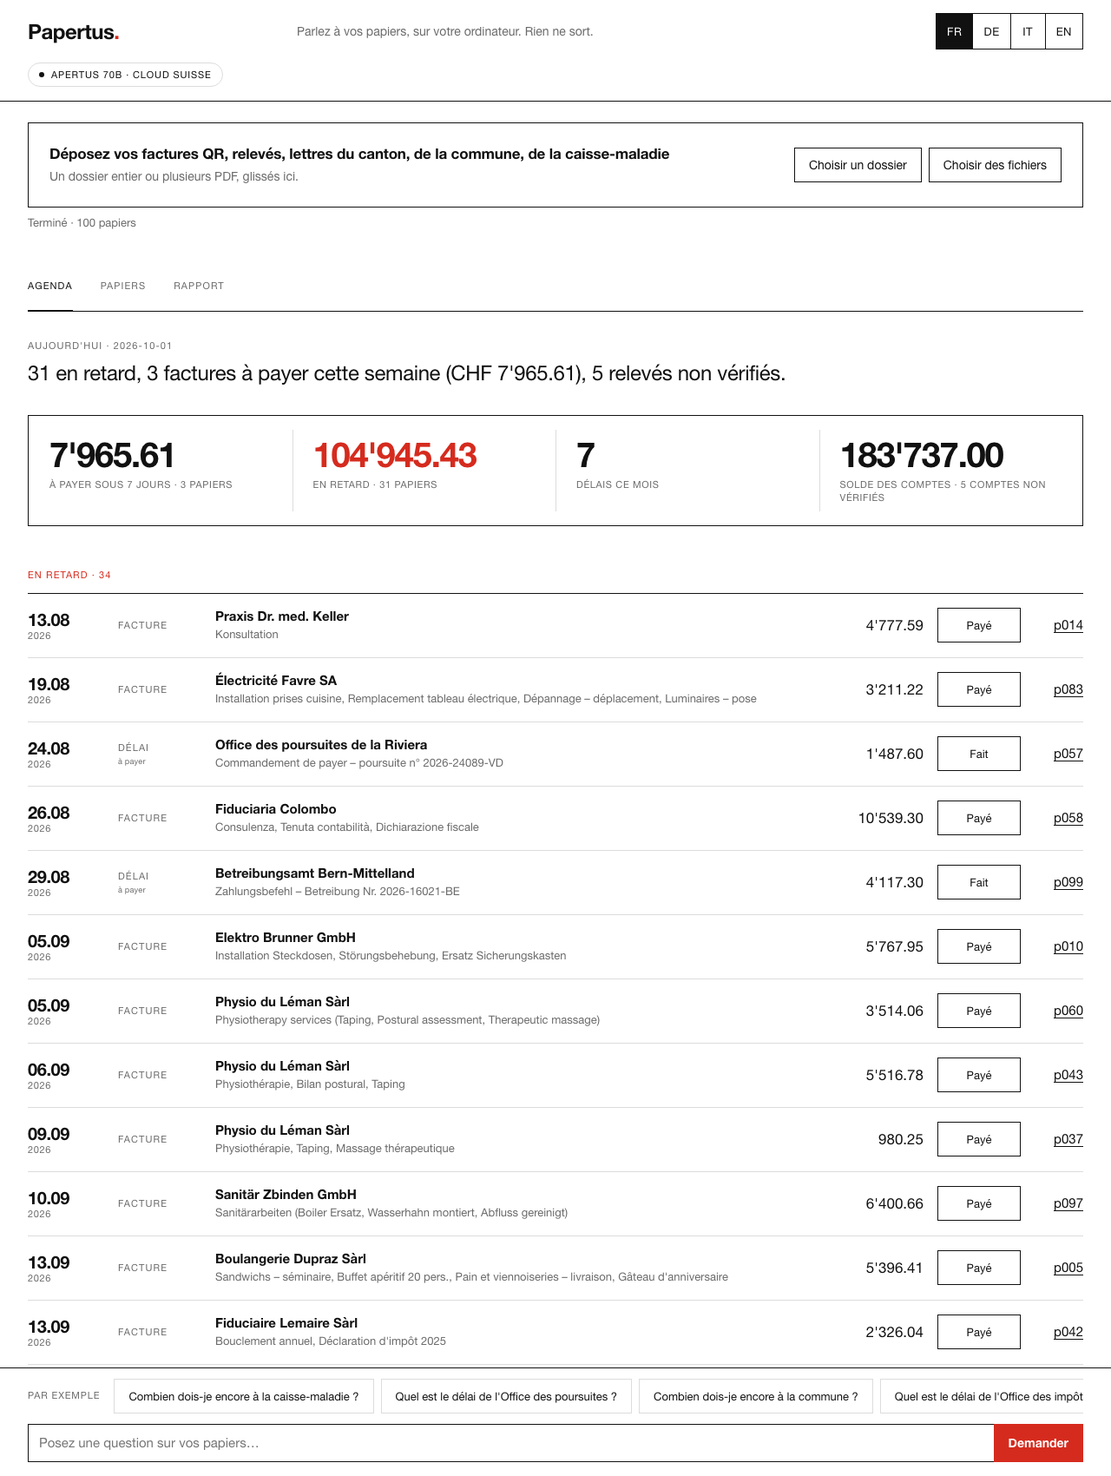
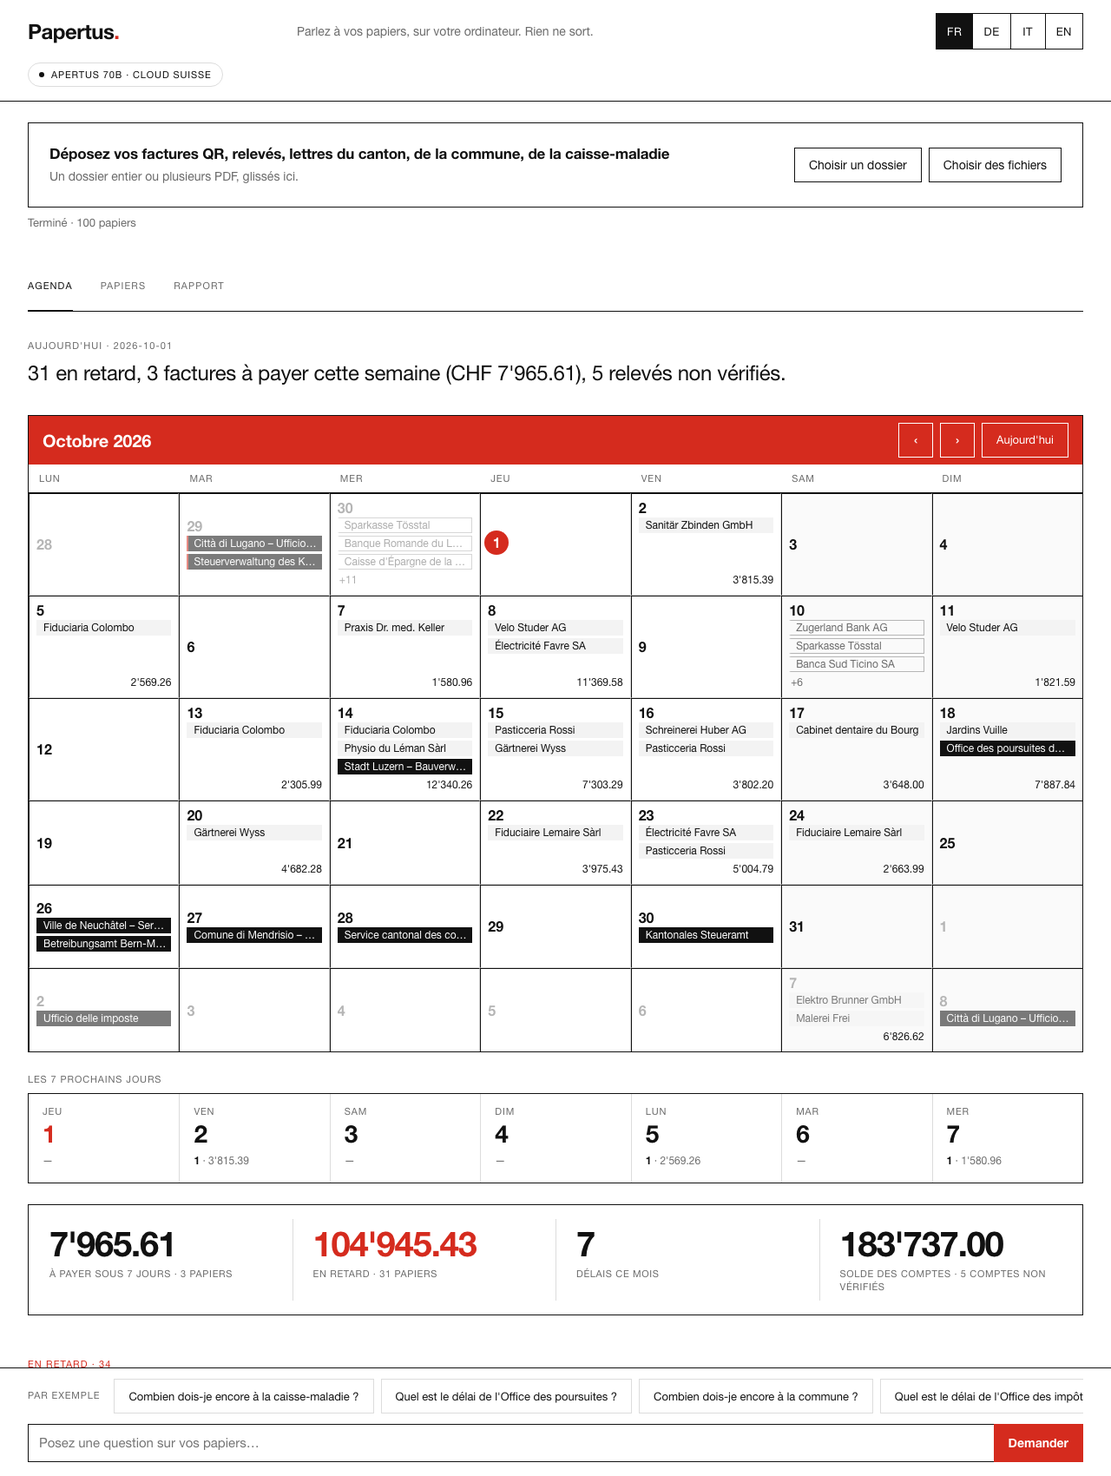
Agenda as a calendar: month view, week strip, day filter, Swiss colours

diff --git a/track_2b/src/papertus/web.py b/track_2b/src/papertus/web.py
@@ -423,10 +423,12 @@ def _today(today: str | None) -> date:
 
 
 @app.get("/api/agenda")
-def api_agenda(today: str | None = None, lang: str = "fr") -> dict[str, Any]:
+def api_agenda(today: str | None = None, lang: str = "fr", month: str | None = None) -> dict[str, Any]:
+    if month and not _MONTH_RE.match(month):
+        raise HTTPException(400, "month must be YYYY-MM")
     with STORE.lock:
         done = set(STORE.done)
-    return agenda_mod.build_agenda(STORE.ordered(), _today(today), done, i18n.norm_lang(lang))
+    return agenda_mod.build_agenda(STORE.ordered(), _today(today), done, i18n.norm_lang(lang), month)
 
 
 @app.post("/api/agenda/done")
@@ -562,8 +564,47 @@ input[type=file] { display:none; }
 .panel { display:none; grid-column:1 / span 12; } .panel.on { display:grid; grid-template-columns:repeat(12, minmax(0, 1fr)); column-gap:var(--s3); }
 
 /* agenda */
-.agenda .today { grid-column:1 / span 10; font-size:24px; line-height:1.3; letter-spacing:-.015em; margin:0 0 var(--s4); }
-.agenda .today b { font-weight:400; color:var(--grey); display:block; font-size:11px; letter-spacing:.1em; text-transform:uppercase; margin-bottom:var(--s1); line-height:1.4; }
+.agenda p.today { grid-column:1 / span 10; font-size:24px; line-height:1.3; letter-spacing:-.015em; margin:0 0 var(--s4); }
+.agenda p.today b { font-weight:400; color:var(--grey); display:block; font-size:11px; letter-spacing:.1em; text-transform:uppercase; margin-bottom:var(--s1); line-height:1.4; }
+.cal { grid-column:1 / span 12; border:1px solid var(--ink); margin-bottom:var(--s3); background:var(--paper); }
+.cal-head { background:var(--red); color:#fff; display:flex; align-items:center; gap:var(--s1); padding:var(--s1) var(--s2); min-height:56px; }
+.cal-head h2 { flex:1; margin:0; font-size:20px; font-weight:700; letter-spacing:-.01em; color:#fff; line-height:1.2; }
+.cal-head button { border:1px solid #fff; color:#fff; background:transparent; min-width:40px; min-height:40px; padding:0 12px; font-size:18px; line-height:1; }
+.cal-head button.today { font-size:13px; padding:0 var(--s2); }
+.cal-head button:hover { background:rgba(255,255,255,.14); }
+.cal-head button:focus-visible { outline-color:#fff; }
+.cal-days { display:grid; grid-template-columns:repeat(7, minmax(0,1fr)); border-bottom:1px solid var(--ink); }
+.cal-days span { padding:var(--s1) 12px; font-size:11px; letter-spacing:.08em; text-transform:uppercase; color:var(--grey); }
+.cal-grid { display:grid; grid-template-columns:repeat(7, minmax(0,1fr)); }
+.cell { min-height:96px; padding:var(--s1); border-right:1px solid var(--hair); border-bottom:1px solid var(--hair); display:flex; flex-direction:column; align-items:stretch; gap:3px; cursor:pointer; background:var(--paper); min-width:0; overflow:hidden; text-align:left; font:inherit; color:inherit; }
+.cell:nth-child(7n) { border-right:none; }
+.cal-grid .cell:nth-last-child(-n+7) { border-bottom:none; }
+.cell.we { background:#fafafa; }
+.cell.out { color:#b5b5b5; }
+.cell.out .chip { opacity:.55; }
+.cell.sel { box-shadow:inset 0 0 0 2px var(--ink); }
+.cell .dn { font-size:16px; font-weight:700; line-height:1; font-variant-numeric:tabular-nums; align-self:flex-start; }
+.cell.today .dn { display:inline-flex; align-items:center; justify-content:center; width:28px; height:28px; margin:-4px 0 0 -4px; border-radius:50%; background:var(--red); color:#fff; }
+.chip { display:block; width:100%; max-width:100%; font-size:12px; line-height:18px; padding:0 6px; white-space:nowrap; overflow:hidden; text-overflow:ellipsis; border-left:2px solid transparent; min-width:0; text-align:left; }
+.chip.bill { background:#f3f3f3; color:var(--ink); }
+.chip.deadline { background:var(--ink); color:#fff; }
+.chip.statement { border:1px solid #b5b5b5; border-left:2px solid transparent; color:var(--grey); line-height:16px; }
+.chip.late { border-left-color:var(--red); }
+.chip.done { text-decoration:line-through; opacity:.5; }
+.chip.more { color:var(--grey); padding-left:0; }
+.cell .sum { margin-top:auto; align-self:flex-end; font-size:12px; font-variant-numeric:tabular-nums; color:var(--ink); }
+.cell .dots { display:none; }
+.wk-title { grid-column:1 / span 12; margin-bottom:var(--s1); }
+.wk { grid-column:1 / span 12; display:grid; grid-template-columns:repeat(7, minmax(0,1fr)); border:1px solid var(--ink); margin-bottom:var(--s3); }
+.wk .wd { padding:12px var(--s2) var(--s2); border-left:1px solid var(--hair); min-width:0; }
+.wk .wd:first-child { border-left:none; }
+.wk .wd .m { font-size:11px; letter-spacing:.08em; text-transform:uppercase; color:var(--grey); }
+.wk .wd .n { font-size:28px; font-weight:700; letter-spacing:-.03em; line-height:1.1; font-variant-numeric:tabular-nums; margin:2px 0 6px; }
+.wk .wd.today .n { color:var(--red); }
+.wk .wd .c { font-size:12px; color:var(--grey); font-variant-numeric:tabular-nums; white-space:nowrap; overflow:hidden; text-overflow:ellipsis; }
+.wk .wd .c b { color:var(--ink); font-weight:600; }
+.events .dayfilter { display:flex; align-items:center; gap:var(--s2); margin:var(--s3) 0 0; padding-bottom:12px; border-bottom:1px solid var(--rule); font-size:11px; letter-spacing:.1em; text-transform:uppercase; color:var(--grey); }
+.events .dayfilter a { color:var(--ink); }
 .figs { grid-column:1 / span 12; display:grid; grid-template-columns:repeat(4, minmax(0,1fr)); border:1px solid var(--ink); padding:var(--s2) 0; margin-bottom:var(--s3); }
 .fig { position:relative; padding:var(--s1) var(--s3); }
 .fig + .fig::before { content:""; position:absolute; left:0; top:0; bottom:0; width:1px; background:var(--hair); }
@@ -674,7 +715,19 @@ select { min-height:40px; font:inherit; padding:0 12px; border:1px solid var(--i
   .list { max-height:36vh; margin-bottom:var(--s3); }
   .facts col.c1 { width:120px; }
   .facts td.v.amt { font-size:22px; }
-  .agenda .today { grid-column:1 / span 12; font-size:19px; }
+  .agenda p.today { grid-column:1 / span 12; font-size:19px; }
+  .cal-head { padding:var(--s1) 12px; } .cal-head h2 { font-size:17px; }
+  .cal-days span { padding:6px 4px; font-size:10px; letter-spacing:.04em; text-align:center; }
+  .cell { min-height:52px; padding:4px; gap:4px; align-items:center; }
+  .cell .dn { font-size:14px; align-self:center; }
+  .cell.today .dn { width:24px; height:24px; margin:0; }
+  .chip, .cell .sum { display:none; }
+  .cell .dots { display:flex; gap:3px; justify-content:center; flex-wrap:wrap; }
+  .dot { width:6px; height:6px; border-radius:50%; }
+  .dot.bill { background:#b5b5b5; } .dot.deadline { background:var(--ink); } .dot.statement { border:1px solid #b5b5b5; }
+  .dot.late { background:var(--red); border-color:var(--red); }
+  .wk { display:flex; overflow-x:auto; -webkit-overflow-scrolling:touch; }
+  .wk .wd { flex:0 0 112px; }
   .figs { grid-template-columns:repeat(2, minmax(0,1fr)); padding:var(--s2) 0; }
   .fig { padding:var(--s1) var(--s2); }
   .fig:nth-child(3)::before { display:none; }
@@ -721,6 +774,18 @@ select { min-height:40px; font:inherit; padding:0 12px; border:1px solid var(--i
 
     <section class="panel agenda on" id="panel-agenda">
       <p class="today" id="agenda-line"></p>
+      <div class="cal" id="cal">
+        <div class="cal-head">
+          <h2 id="cal-title"></h2>
+          <button type="button" id="cal-prev" aria-label="prev">‹</button>
+          <button type="button" id="cal-next" aria-label="next">›</button>
+          <button type="button" id="cal-today" class="today" data-i18n="agenda.today_btn"></button>
+        </div>
+        <div class="cal-days" id="cal-days"></div>
+        <div class="cal-grid" id="cal-grid"></div>
+      </div>
+      <div class="wk-title"><span class="label" data-i18n="agenda.week_title"></span></div>
+      <div class="wk" id="wk"></div>
       <div class="figs" id="agenda-figs"></div>
       <div class="events" id="agenda-events"></div>
       <div class="reminders">
@@ -760,7 +825,7 @@ select { min-height:40px; font:inherit; padding:0 12px; border:1px solid var(--i
 <script>
 (function () {
   var S = {};                       // chaînes de la langue courante
-  var state = { lang: 'fr', papers: [], selected: null, tab: 'agenda', today: null };
+  var state = { lang: 'fr', papers: [], selected: null, tab: 'agenda', today: null, month: null, day: null, agenda: null };
   var $ = function (id) { return document.getElementById(id); };
   var esc = function (s) { return String(s == null ? '' : s).replace(/[&<>"']/g, function (c) {
     return { '&': '&amp;', '<': '&lt;', '>': '&gt;', '"': '&quot;', "'": '&#39;' }[c]; }); };
@@ -928,11 +993,47 @@ select { min-height:40px; font:inherit; padding:0 12px; border:1px solid var(--i
   // --- agenda : tout vient de /api/agenda, calculé par le code ------------------
   function fmtDay(iso) { var p = iso.split('-'); return p[2] + '.' + p[1]; }
   function loadAgenda() {
-    var url = '/api/agenda?lang=' + state.lang + (state.today ? '&today=' + state.today : '');
+    var url = '/api/agenda?lang=' + state.lang + (state.today ? '&today=' + state.today : '') + (state.month ? '&month=' + state.month : '');
     $('ics').href = '/api/agenda.ics?lang=' + state.lang + (state.today ? '&today=' + state.today : '');
     fetch(url).then(function (r) { return r.json(); }).then(renderAgenda).catch(function () { $('agenda-line').textContent = T('error'); });
   }
+  var MONTHS = { fr: ['janvier','février','mars','avril','mai','juin','juillet','août','septembre','octobre','novembre','décembre'],
+    de: ['Januar','Februar','März','April','Mai','Juni','Juli','August','September','Oktober','November','Dezember'],
+    it: ['gennaio','febbraio','marzo','aprile','maggio','giugno','luglio','agosto','settembre','ottobre','novembre','dicembre'],
+    en: ['January','February','March','April','May','June','July','August','September','October','November','December'] };
+  function monthLabel(ym) { var p = ym.split('-'); var n = MONTHS[state.lang][parseInt(p[1], 10) - 1]; return n.charAt(0).toUpperCase() + n.slice(1) + ' ' + p[0]; }
+  function renderCalendar(a) {
+    var m = a.month, days = T('agenda.weekdays').split(' ');
+    $('cal-title').textContent = monthLabel(m.month);
+    $('cal-days').innerHTML = days.map(function (d) { return '<span>' + esc(d) + '</span>'; }).join('');
+    var html = '';
+    m.weeks.forEach(function (week) { week.forEach(function (c) {
+      var cls = 'cell' + (c.in_month ? '' : ' out') + (c.weekend ? ' we' : '') + (c.today ? ' today' : '') + (state.day === c.date ? ' sel' : '');
+      var shown = c.events.slice(0, 3), more = c.events.length - shown.length;
+      var chips = shown.map(function (e) {
+        return '<span class="chip ' + e.kind + (e.overdue ? ' late' : '') + (e.done ? ' done' : '') + '" title="' + esc((e.who || '') + (e.amount != null ? ' · CHF ' + chf(e.amount) : '')) + '">' + esc(e.who || e.paper_id) + '</span>'; }).join('') +
+        (more > 0 ? '<span class="chip more">+' + more + '</span>' : '');
+      var kinds = []; c.events.forEach(function (e) { var k = e.kind + (e.overdue ? ' late' : ''); if (kinds.indexOf(k) < 0) kinds.push(k); });
+      var dots = '<span class="dots">' + kinds.slice(0, 3).map(function (k) { return '<i class="dot ' + k + '"></i>'; }).join('') + '</span>';
+      html += '<button type="button" class="' + cls + '" data-day="' + c.date + '"><span class="dn">' + c.day + '</span>' + chips + dots +
+        (c.open_bills_total ? '<span class="sum">' + chf(c.open_bills_total) + '</span>' : '') + '</button>';
+    }); });
+    $('cal-grid').innerHTML = html;
+    $('cal-grid').querySelectorAll('.cell').forEach(function (b) { b.onclick = function () {
+      var d = b.getAttribute('data-day'); state.day = (state.day === d) ? null : d; renderCalendar(a); renderEvents(a); }; });
+    $('cal-prev').onclick = function () { state.month = m.prev; state.day = null; loadAgenda(); };
+    $('cal-next').onclick = function () { state.month = m.next; state.day = null; loadAgenda(); };
+    $('cal-today').onclick = function () { state.month = null; state.day = null; loadAgenda(); };
+  }
+  function renderWeek(a) {
+    var days = T('agenda.weekdays').split(' ');
+    $('wk').innerHTML = a.week.map(function (d) {
+      return '<div class="wd' + (d.today ? ' today' : '') + '"><div class="m">' + esc(days[d.weekday]) + '</div><div class="n">' + d.day + '</div>' +
+        '<div class="c">' + (d.count ? '<b>' + d.count + '</b>' + (d.sum ? ' · ' + chf(d.sum) : '') : '—') + '</div></div>'; }).join('');
+  }
   function renderAgenda(a) {
+    state.agenda = a;
+    renderCalendar(a); renderWeek(a);
     var f = a.figures;
     $('agenda-line').innerHTML = '<b>' + esc(T('agenda.today.label')) + ' · ' + esc(a.today) + '</b>' + esc(a.line);
     var plural = function (k, n) { return T(n === 1 ? k + '_1' : k + '_n').replace('{n}', n); };
@@ -941,10 +1042,19 @@ select { min-height:40px; font:inherit; padding:0 12px; border:1px solid var(--i
       '<div class="fig' + (f.overdue_count ? ' red' : '') + '"><div class="n">' + chf(f.overdue_total) + '</div><div class="u">' + esc(T('agenda.fig.overdue')) + ' · ' + esc(plural('agenda.fig.count', f.overdue_count)) + '</div></div>' +
       '<div class="fig"><div class="n">' + f.deadlines_month + '</div><div class="u">' + esc(T('agenda.fig.deadlines')) + '</div></div>' +
       '<div class="fig"><div class="n">' + chf(f.balance_total) + '</div><div class="u">' + esc(T('agenda.fig.balance')) + (f.balance_blank ? ' · ' + esc(plural('agenda.fig.blank', f.balance_blank)) : '') + '</div></div>';
+    renderEvents(a);
+  }
+  function renderEvents(a) {
     var html = '', any = false;
-    ['overdue', 'week', 'month', 'later', 'done'].forEach(function (g) {
+    var groups = ['overdue', 'week', 'month', 'later', 'done'];
+    if (state.day) {
+      var all = []; groups.forEach(function (g) { (a.groups[g] || []).forEach(function (e) { if (e.date === state.day) all.push(e); }); });
+      html += '<div class="dayfilter"><span>' + esc(T('agenda.day_filter')) + ' ' + esc(fmtDay(state.day)) + '.' + esc(state.day.slice(0, 4)) + ' · ' + all.length + '</span><a href="#" id="day-all">' + esc(T('agenda.all')) + '</a></div>';
+      a = { groups: { day: all } }; groups = ['day']; any = all.length > 0;
+    }
+    groups.forEach(function (g) {
       var evs = a.groups[g] || []; if (!evs.length) return; any = true;
-      html += '<h3 class="' + (g === 'overdue' ? 'red' : '') + '">' + esc(T('agenda.group.' + g)) + ' · ' + evs.length + '</h3>';
+      if (g !== 'day') html += '<h3 class="' + (g === 'overdue' ? 'red' : '') + '">' + esc(T('agenda.group.' + g)) + ' · ' + evs.length + '</h3>';
       evs.forEach(function (e) {
         var amt = e.amount == null
           ? '<div class="a blank">' + esc(e.kind === 'statement' ? T('agenda.unverified') : '—') + '</div>'
@@ -968,6 +1078,7 @@ select { min-height:40px; font:inherit; padding:0 12px; border:1px solid var(--i
       };
     });
     $('agenda-events').querySelectorAll('a[data-open]').forEach(function (l) { l.onclick = function (e) { e.preventDefault(); openPaper(l.getAttribute('data-open')); }; });
+    var all = $('day-all'); if (all) all.onclick = function (e) { e.preventDefault(); state.day = null; renderCalendar(state.agenda); renderEvents(state.agenda); };
   }
   $('tab-report').onclick = function () { showTab('report'); if (!$('report').innerHTML) genReport(); };
 
@@ -1024,6 +1135,7 @@ select { min-height:40px; font:inherit; padding:0 12px; border:1px solid var(--i
   if (LANGS.indexOf(saved) < 0) saved = 'fr';
   if (params.get('paper')) state.selected = params.get('paper');
   state.today = /^\d{4}-\d{2}-\d{2}$/.test(params.get('today') || '') ? params.get('today') : null;
+  state.month = /^\d{4}-\d{2}$/.test(params.get('month') || '') ? params.get('month') : null;
   setLang(saved, true);
   loadPapers().then(function () {
     var tab = params.get('tab');

diff --git a/track_2b/src/papertus/agenda.py b/track_2b/src/papertus/agenda.py
@@ -181,8 +181,65 @@ def today_line(events: list[Event], today: date, lang: str) -> str:
     return ", ".join(parts) + "."
 
 
-def build_agenda(papers: list[Any], today: date, done: set[str] | None = None, lang: str = "fr") -> dict[str, Any]:
-    """La structure complète pour la page et l'API : chiffres, ligne du jour, groupes d'événements."""
+def _month_of(month: str | None, today: date) -> tuple[int, int]:
+    if month:
+        try:
+            y, m = (int(x) for x in month.split("-")[:2])
+            if 1 <= m <= 12:
+                return y, m
+        except ValueError:
+            pass
+    return today.year, today.month
+
+
+def month_grid(today: date, events: list[Event], month: str | None = None) -> dict[str, Any]:
+    """Le mois en 6 semaines × 7 jours (lundi → dimanche) : pour chaque jour, ses événements (ouverts
+    d'abord, par genre), la somme des factures ouvertes, le nombre de retards, et ses drapeaux
+    (dans le mois, week-end, aujourd'hui). Toujours 42 cases pour une grille stable."""
+    y, m = _month_of(month, today)
+    first = date(y, m, 1)
+    start = first - timedelta(days=first.weekday())  # le lundi de la première semaine
+    by_day: dict[str, list[Event]] = {}
+    for e in events:
+        by_day.setdefault(e.date, []).append(e)
+    order = {"bill": 0, "deadline": 1, "statement": 2}
+    weeks: list[list[dict[str, Any]]] = []
+    for w in range(6):
+        row = []
+        for d in range(7):
+            day = start + timedelta(days=w * 7 + d)
+            evs = sorted(by_day.get(day.isoformat(), []), key=lambda e: (e.done, order.get(e.kind, 9), e.paper_id))
+            open_bills = [e for e in evs if e.kind == "bill" and not e.done]
+            row.append({
+                "date": day.isoformat(), "day": day.day, "in_month": day.month == m, "weekend": day.weekday() >= 5,
+                "today": day == today,
+                "events": [dict(e.to_dict(), overdue=(not e.done and day < today and e.kind in ("bill", "deadline"))) for e in evs],
+                "open_bills_total": round(sum(e.amount or 0.0 for e in open_bills), 2),
+                "open_count": sum(1 for e in evs if not e.done),
+                "overdue_count": sum(1 for e in evs if not e.done and day < today and e.kind in ("bill", "deadline")),
+            })
+        weeks.append(row)
+    prev_m = date(y, m, 1) - timedelta(days=1)
+    next_m = date(y + 1, 1, 1) if m == 12 else date(y, m + 1, 1)
+    return {"month": f"{y}-{m:02d}", "prev": prev_m.strftime("%Y-%m"), "next": next_m.strftime("%Y-%m"),
+            "start": start.isoformat(), "weeks": weeks}
+
+
+def week_strip(today: date, events: list[Event]) -> list[dict[str, Any]]:
+    """Les sept prochains jours à partir d'aujourd'hui : nombre et somme des éléments ouverts."""
+    out = []
+    for i in range(WEEK_DAYS):
+        day = today + timedelta(days=i)
+        evs = [e for e in events if e.date == day.isoformat() and not e.done]
+        out.append({"date": day.isoformat(), "day": day.day, "weekday": day.weekday(), "today": i == 0,
+                    "count": len(evs),
+                    "sum": round(sum(e.amount or 0.0 for e in evs if e.kind in ("bill", "deadline")), 2)})
+    return out
+
+
+def build_agenda(papers: list[Any], today: date, done: set[str] | None = None, lang: str = "fr",
+                 month: str | None = None) -> dict[str, Any]:
+    """La structure complète pour la page et l'API : chiffres, ligne du jour, mois, semaine, groupes."""
     lang = i18n.norm_lang(lang)
     events = events_from_papers(papers, done)
     groups = group_events(events, today)
@@ -191,6 +248,8 @@ def build_agenda(papers: list[Any], today: date, done: set[str] | None = None, l
         "lang": lang,
         "line": today_line(events, today, lang),
         "figures": figures(events, papers, today),
+        "month": month_grid(today, events, month),
+        "week": week_strip(today, events),
         "groups": {g: [e.to_dict() for e in evs] for g, evs in groups.items()},
         "counts": {g: len(evs) for g, evs in groups.items()},
     }

diff --git a/track_2b/tests/test_agenda.py b/track_2b/tests/test_agenda.py
@@ -100,3 +100,41 @@ def test_ics_has_the_required_lines(papers):
     assert "DESCRIPTION:Papertus [p006] · DÉLAI · Pièces · documents à fournir" in lines
     de = agenda.to_ics(evs, "de")
     assert "Unterlagen einreichen" in de and "submit_documents" not in de and "ß" not in de
+
+
+def test_month_grid_six_weeks_monday_first(papers):
+    evs = agenda.events_from_papers(papers, done={"p002:bill"})
+    agenda.group_events(evs, TODAY)
+    g = agenda.month_grid(TODAY, evs, "2026-10")
+    assert g["month"] == "2026-10" and g["prev"] == "2026-09" and g["next"] == "2026-11"
+    assert len(g["weeks"]) == 6 and all(len(w) == 7 for w in g["weeks"])
+    assert g["weeks"][0][0]["date"] == "2026-09-28" and g["weeks"][0][0]["in_month"] is False   # lundi avant le 1er
+    cells = {c["date"]: c for w in g["weeks"] for c in w}
+    assert cells["2026-10-01"]["today"] is True and cells["2026-10-03"]["weekend"] is True
+    oct3 = cells["2026-10-03"]
+    assert [e["id"] for e in oct3["events"]] == ["p001:bill"] and oct3["open_bills_total"] == 2276.96 and oct3["open_count"] == 1
+    sep30 = cells["2026-09-30"]
+    assert {e["id"] for e in sep30["events"]} == {"p007:statement", "p009:statement"} and sep30["open_bills_total"] == 0
+    sep20 = agenda.month_grid(TODAY, evs, "2026-09")
+    c = {c["date"]: c for w in sep20["weeks"] for c in w}["2026-09-20"]
+    assert c["events"][0]["id"] == "p002:bill" and c["events"][0]["done"] is True and c["overdue_count"] == 0  # payé : plus en retard
+    bad = agenda.month_grid(TODAY, evs, "nope")
+    assert bad["month"] == "2026-10"
+
+
+def test_month_grid_flags_overdue_open_events(papers):
+    evs = agenda.events_from_papers(papers)
+    g = agenda.month_grid(TODAY, evs, "2026-09")
+    c = {c["date"]: c for w in g["weeks"] for c in w}["2026-09-20"]
+    assert c["events"][0]["overdue"] is True and c["overdue_count"] == 1 and c["open_bills_total"] == 500.0
+
+
+def test_week_strip(papers):
+    evs = agenda.events_from_papers(papers)
+    w = agenda.week_strip(TODAY, evs)
+    assert [d["date"] for d in w][:2] == ["2026-10-01", "2026-10-02"] and len(w) == 7 and w[0]["today"] is True
+    by = {d["date"]: d for d in w}
+    assert (by["2026-10-03"]["count"], by["2026-10-03"]["sum"]) == (1, 2276.96)
+    assert (by["2026-10-05"]["count"], by["2026-10-05"]["sum"]) == (1, 1932.5)
+    assert by["2026-10-02"]["count"] == 0
+    assert "month" in agenda.build_agenda(papers, TODAY, None, "fr", "2026-11") and agenda.build_agenda(papers, TODAY, None, "fr", "2026-11")["month"]["month"] == "2026-11"

diff --git a/track_2b/src/papertus/i18n.py b/track_2b/src/papertus/i18n.py
@@ -382,6 +382,13 @@ _S: dict[str, tuple[str, str, str, str]] = {
     "letter_kind.permit_decision": ("Permis", "Bewilligung", "Permesso", "Permit"),
 
     # --- Agenda ----------------------------------------------------------------
+    "agenda.weekdays": ("Lun Mar Mer Jeu Ven Sam Dim", "Mo Di Mi Do Fr Sa So", "Lun Mar Mer Gio Ven Sab Dom", "Mon Tue Wed Thu Fri Sat Sun"),
+    "agenda.today_btn": ("Aujourd'hui", "Heute", "Oggi", "Today"),
+    "agenda.all": ("Tout", "Alle", "Tutto", "All"),
+    "agenda.prev": ("Mois précédent", "Vormonat", "Mese precedente", "Previous month"),
+    "agenda.next": ("Mois suivant", "Nächster Monat", "Mese successivo", "Next month"),
+    "agenda.week_title": ("Les 7 prochains jours", "Die nächsten 7 Tage", "I prossimi 7 giorni", "The next 7 days"),
+    "agenda.day_filter": ("Événements du", "Ereignisse vom", "Eventi del", "Events on"),
     "agenda.fig.due7": ("À payer sous 7 jours", "Zu zahlen in 7 Tagen", "Da pagare entro 7 giorni", "To pay within 7 days"),
     "agenda.fig.overdue": ("En retard", "Überfällig", "In ritardo", "Overdue"),
     "agenda.fig.deadlines": ("Délais ce mois", "Fristen diesen Monat", "Termini questo mese", "Deadlines this month"),
